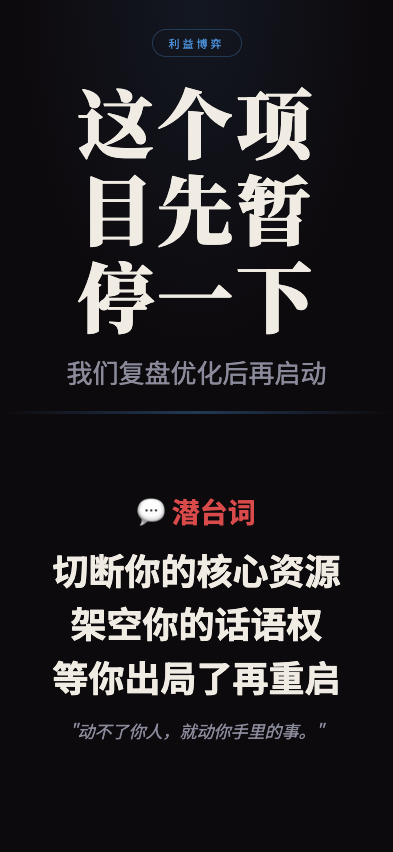
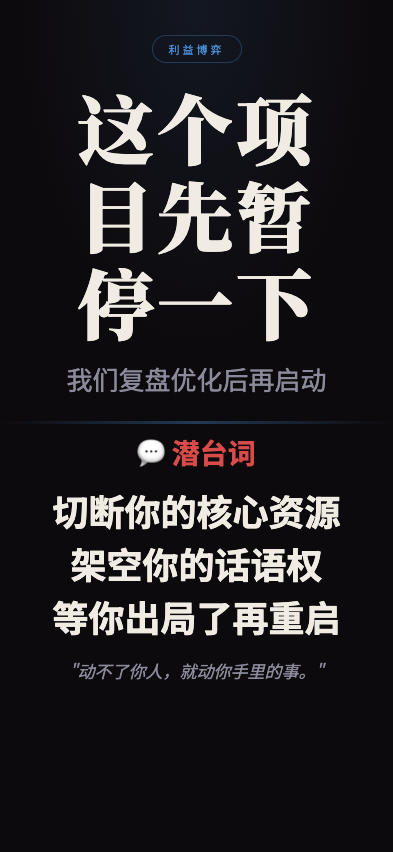
feat: 职场生存法则 screenshot - zhegexiangmuxianzanting

diff --git a/wuliao-tools/tools/biz-speak/scenes/zhegexiangmuxianzanting.html b/wuliao-tools/tools/biz-speak/scenes/zhegexiangmuxianzanting.html
@@ -27,12 +27,12 @@
     background:radial-gradient(ellipse at 50% 0%, rgba(74,144,217,0.1) 0%, transparent 65%);
     pointer-events:none; z-index:0;
   }
-  .top { flex:1; display:flex; flex-direction:column; align-items:center; justify-content:center; padding:16px 28px 8px; position:relative; z-index:1; }
+  .top { flex:1; display:flex; flex-direction:column; align-items:center; justify-content:flex-end; padding:16px 28px 24px; position:relative; z-index:1; }
   .tag { font-size:11px; letter-spacing:3px; color:var(--gold); border:1px solid rgba(74,144,217,0.3); padding:5px 16px; border-radius:50px; margin-bottom:20px; }
   .main-title { font-family:'Noto Serif SC'; font-size:76px; font-weight:900; text-align:center; line-height:1.15; letter-spacing:3px; max-width:92%; overflow-wrap:break-word; }
   .sub-title { font-size:26px; color:var(--text-dim); text-align:center; margin-top:14px; }
   .divider { width:100%; height:3px; background:linear-gradient(90deg,transparent,var(--gold),transparent); opacity:0.35; flex-shrink:0; position:relative; z-index:1; }
-  .bottom { flex:1; display:flex; flex-direction:column; align-items:center; justify-content:center; padding:12px 28px 40px; position:relative; z-index:1; }
+  .bottom { flex:1; display:flex; flex-direction:column; align-items:center; justify-content:flex-start; padding:8px 28px 40px; position:relative; z-index:1; }
   .truth-label { font-size:28px; font-weight:700; color:var(--red); display:flex; align-items:center; gap:10px; margin-bottom:16px; }
   .truth-lines { display:flex; flex-direction:column; align-items:center; gap:10px; }
   .truth-line { font-size:36px; font-weight:700; color:var(--text); text-align:center; line-height:1.2; }
